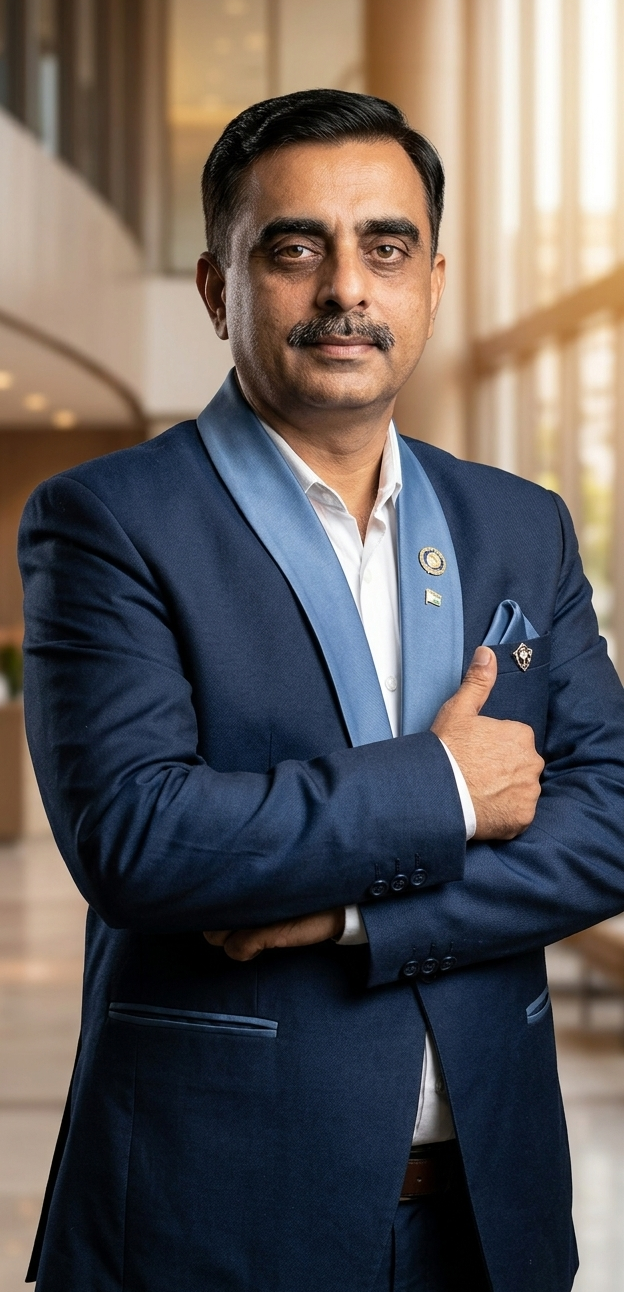
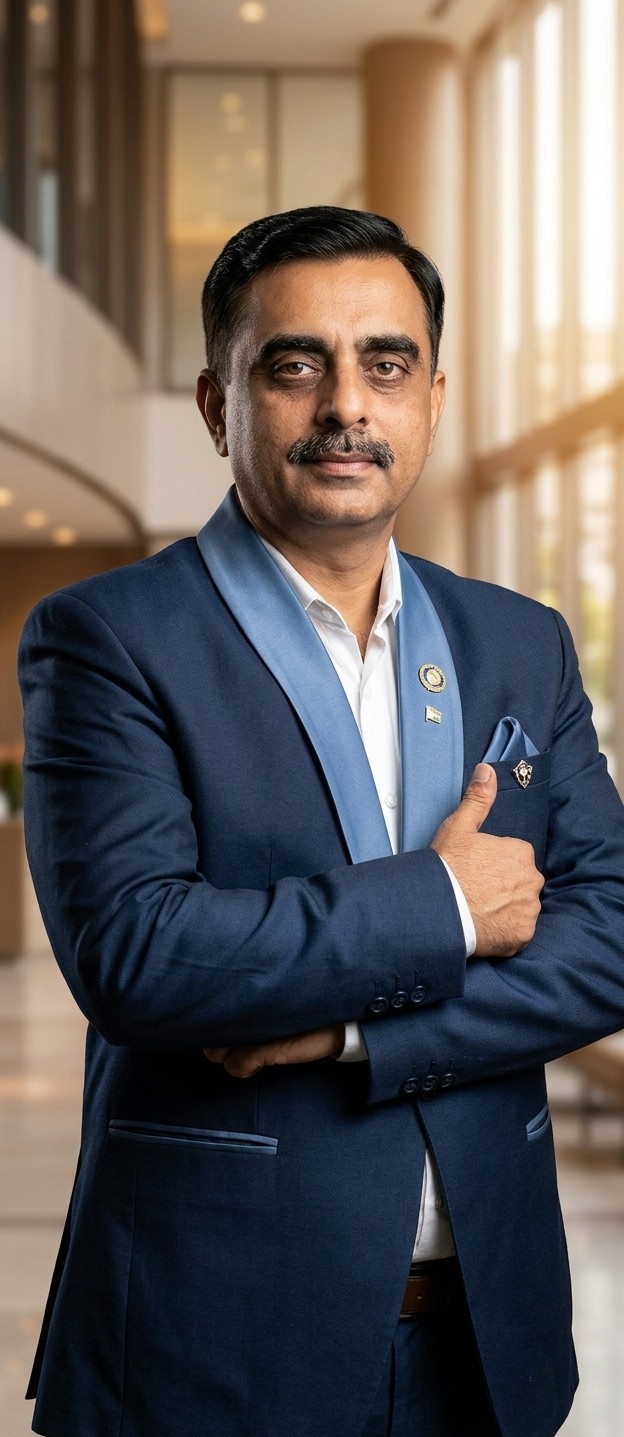
feat: Update About page team members and roles, add Wattsun AI chatbot component, and integrate Google Generative AI

diff --git a/server/routes.ts b/server/routes.ts
@@ -24,7 +24,7 @@ let genAI: any = null;
 if (GEMINI_API_KEY && GoogleGenerativeAI) {
   try {
     genAI = new GoogleGenerativeAI(GEMINI_API_KEY);
-    console.log("Gemini AI initialized for Suryamitra chatbot");
+    console.log("Gemini AI initialized for Wattsun AI chatbot");
   } catch (e) {
     console.error('Failed to initialize Gemini SDK:', (e as Error)?.message || e);
     genAI = null;
@@ -35,7 +35,7 @@ if (GEMINI_API_KEY && GoogleGenerativeAI) {
   console.warn("⚠ GEMINI_API_KEY not set — chatbot will use fallback responses");
 }
 
-const SOLAR_MITRA_SYSTEM_PROMPT = `You are "Suryamitra", a professional, knowledgeable solar energy assistant chatbot for Swayog Energy Private Limited.
+const WATTSUN_AI_SYSTEM_PROMPT = `You are "Wattsun AI", a professional, knowledgeable solar energy assistant chatbot for Swayog Energy (Wattsun AI service).
 
 PERSONALITY & TONE:
 - Professional, warm, and confident about solar energy
@@ -44,7 +44,7 @@ PERSONALITY & TONE:
 - Be helpful yet professional
 - If someone greets you, greet them back warmly
 
-COMPANY INFO (Swayog Energy):
+COMPANY INFO (Wattsun AI / Swayog Energy):
 - Location: 205, Gauri Ganesh Apartment, Utkarsh Nagar, KT Nagar Garden, behind Cake Link, Katol Road, Nagpur, Maharashtra 440013
 - Phone: +91 8484030070
 - WhatsApp: +91 9272099152
@@ -88,10 +88,10 @@ KEY SOLAR FACTS:
 
 BEHAVIOR RULES:
 1. When user mentions their electricity bill amount, ALWAYS recommend the best plan from above and briefly explain why.
-2. After recommending a plan, ALWAYS suggest contacting Swayog Energy (give phone/WhatsApp).
+2. After recommending a plan, ALWAYS suggest contacting Wattsun AI (give phone/WhatsApp).
 3. For questions outside solar/energy, politely redirect: "I specialize in solar energy. Ask me anything about solar panels, savings, or our plans."
 4. Keep responses SHORT and actionable.
-5. Never make up information about Swayog Energy that isn't provided above.
+5. Never make up information that isn't provided above.
 6. If asked about custom/commercial/industrial (above 10kW), suggest contacting the team for a custom quote.
 7. NEVER use emojis in your responses. Keep the language clean and professional.`;
 
@@ -101,7 +101,7 @@ export async function registerRoutes(
   app: Express
 ): Promise<Server> {
 
-  // ─── Suryamitra Chatbot API ───
+  // ─── Wattsun AI Chatbot API ───
   app.post('/api/chatbot', async (req, res) => {
     try {
       const { message, history } = req.body;
@@ -122,11 +122,11 @@ export async function registerRoutes(
           history: [
             {
               role: 'user' as const,
-              parts: [{ text: 'System instruction: ' + SOLAR_MITRA_SYSTEM_PROMPT }],
+              parts: [{ text: 'System instruction: ' + WATTSUN_AI_SYSTEM_PROMPT }],
             },
             {
               role: 'model' as const,
-              parts: [{ text: 'Understood. I am Suryamitra, ready to help with solar energy questions for Swayog Energy. I will keep my answers short, professional, and always recommend the right plan based on the customer\'s bill.' }],
+              parts: [{ text: 'Understood. I am Wattsun AI, ready to help with solar energy questions. I will keep my answers short, professional, and always recommend the right plan based on the customer\'s bill.' }],
             },
             ...chatHistory,
           ],
@@ -161,7 +161,7 @@ export async function registerRoutes(
       // Fallback response when AI is unavailable
       return res.json({
         success: true,
-        reply: "I'm currently unable to process your request. Please contact Swayog Energy directly:\n\nPhone: +91 8484030070\nWhatsApp: +91 9272099152\nEmail: info@swayogurja.com",
+        reply: "I'm currently unable to process your request. Please contact Wattsun AI / Swayog Energy directly:\n\nPhone: +91 8484030070\nWhatsApp: +91 9272099152\nEmail: info@swayogurja.com",
       });
     } catch (err) {
       console.error('Chatbot error:', err);

diff --git a/client/src/components/WattsunAiChatbot.tsx b/client/src/components/WattsunAiChatbot.tsx
@@ -11,7 +11,7 @@ interface ChatMessage {
 }
 
 // ═══════════════════ Component ═══════════════════
-export function SolarMitraChatbot() {
+export function WattsunAiChatbot() {
     const [isOpen, setIsOpen] = useState(false);
     const [messages, setMessages] = useState<ChatMessage[]>([]);
     const [input, setInput] = useState("");
@@ -86,7 +86,7 @@ export function SolarMitraChatbot() {
                 {
                     id: nextId(),
                     sender: "bot",
-                    text: "Namaste! I'm **Suryamitra**, your AI solar assistant from Swayog Energy.\n\nI can answer any solar question, recommend the best plan, troubleshoot issues, or connect you with our team. What would you like to know?",
+                    text: "Namaste! I'm **Wattsun AI**, your intelligent solar assistant.\n\nI can answer any solar question, recommend the best plan, troubleshoot issues, or connect you with our team. What would you like to know?",
                     options: [
                         "Best plan for me",
                         "How does solar work?",
@@ -250,7 +250,7 @@ export function SolarMitraChatbot() {
                         style={{
                             background: "linear-gradient(135deg, #d97706, #15803d)",
                         }}
-                        aria-label="Open Suryamitra chatbot"
+                        aria-label="Open Wattsun AI chatbot"
                         data-testid="btn-chatbot-open"
                     >
                         {/* Subtle pulse ring */}
@@ -263,7 +263,7 @@ export function SolarMitraChatbot() {
                         <Sun className="w-7 h-7 sm:w-8 sm:h-8 text-white drop-shadow" />
                         {/* Tooltip */}
                         <span className="absolute right-full mr-3 px-3 py-1.5 bg-gray-900 text-white text-xs sm:text-sm rounded-lg opacity-0 group-hover:opacity-100 transition-opacity whitespace-nowrap pointer-events-none hidden sm:block font-medium tracking-wide">
-                            Suryamitra
+                            Wattsun AI
                         </span>
                     </motion.button>
                 )}
@@ -298,10 +298,10 @@ export function SolarMitraChatbot() {
                             </div>
                             <div className="flex-1 min-w-0">
                                 <h3 className="text-white font-semibold text-[15px] leading-tight tracking-wide">
-                                    Suryamitra
+                                    Wattsun AI
                                 </h3>
                                 <p className="text-emerald-200/80 text-xs font-medium mt-0.5">
-                                    Swayog Energy • AI Assistant
+                                    Wattsun AI • Solar Assistant
                                 </p>
                             </div>
                             <button
@@ -418,7 +418,7 @@ export function SolarMitraChatbot() {
                                 </button>
                             </form>
                             <p className="text-[10px] text-center text-gray-300 mt-2 font-medium tracking-wider uppercase">
-                                Swayog Energy — AI Assistant
+                                Wattsun AI — Solar Assistant
                             </p>
                         </div>
                     </motion.div>

diff --git a/client/src/pages/About.tsx b/client/src/pages/About.tsx
@@ -32,10 +32,10 @@ export default function About() {
 
   const teamMembers = [
     { name: "Kunal Dhakate", role: "Senior Engineer", image: "/images/kunal.jpeg" },
-    { name: "Tejaswini", role: "Project Manager", image: "/images/balaji.jpeg" },
-    { name: "Sagar", role: "----", image: "/images/img2.jpeg" },
-    { name: "Installation Team", role: "Skilled Technicians", image: "/images/com.jpeg" },
-    { name: "Technical Team", role: "Engineering Specialists", image: "/images/WhatsApp Image 2025-07-21 at 11.26.34.jpeg" }
+    { name: "Tejaswini Khawas", role: "Project Manager", image: "/images/tejaswini.jpeg" },
+    { name: "Sagar Kinkar", role: "Documentation Specialist", image: "/images/sagar.jpeg" },
+    { name: "Installation Team", role: "Skilled Technicians", image: "/images/installation.jpeg" },
+    { name: "Technical Team", role: "Engineering Specialists", image: "/images/technical.jpeg" }
   ];
 
   const locations = [

diff --git a/client/src/App.tsx b/client/src/App.tsx
@@ -17,7 +17,7 @@ import { useEffect } from "react";
 
 import { TooltipProvider } from "@/components/ui/tooltip";
 import { WhatsAppOverlay } from "@/components/WhatsAppOverlay";
-import { SolarMitraChatbot } from "@/components/SolarMitraChatbot";
+import { WattsunAiChatbot } from "@/components/WattsunAiChatbot";
 
 function Router() {
   const [location] = useLocation();
@@ -44,7 +44,7 @@ function Router() {
         </Switch>
       </main>
       <Footer />
-      <SolarMitraChatbot />
+      <WattsunAiChatbot />
       <WhatsAppOverlay />
     </div>
   );
